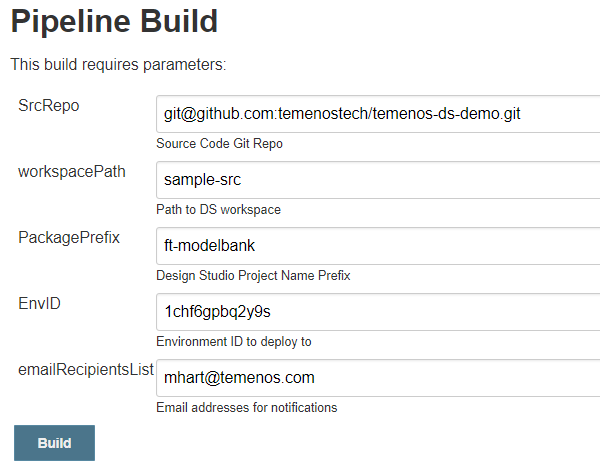
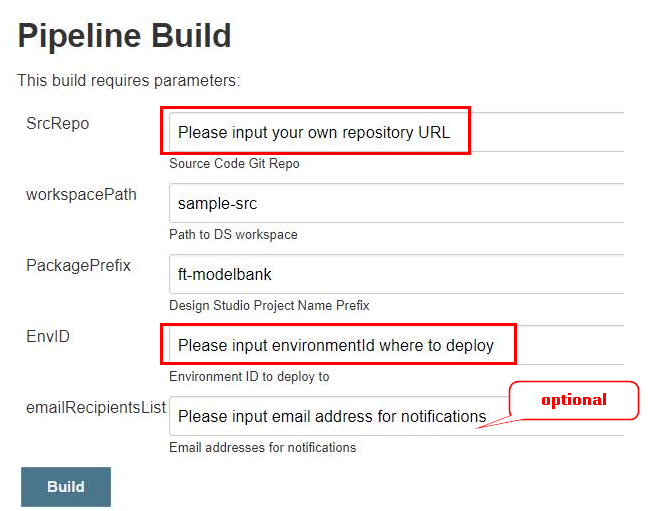
updated jenkins build pipeline user guide

diff --git a/docfx_project/home/techguides/jenkins-build-promote-pipelines.md b/docfx_project/home/techguides/jenkins-build-promote-pipelines.md
@@ -31,7 +31,9 @@ To implement the Pipeline as a code we will use Jenkins Pipeline used to automat
 *(Please note that all necessary information is explained below in the next chapters of current document)*
 
 •	Valid SSH keys to clone the GIT repositories
+
 •	Environments IDs - Test/Integrated Dev
+
 •	Pipeline scripts - Build/Promote 
 
 ## Access Development Portal
@@ -85,7 +87,7 @@ In the new screen, click Login button on the top-right corner:
 
 <br>
 
-Sign in with user ***your user*** and password ***your password***
+Sign in with user ***admin*** and password ***changeit***
 
 ![](./images/jenkins-build-login.png)
 
@@ -216,7 +218,9 @@ Then click on 'Built on'
 
 New screen is open. The following parameters are **required to change** according to your setup:
 
-•	EnvID 
+•	SrcRepo 
+
+•	EnvID (see the note below)
 
 •	emailRecipientsList (optional)
 
